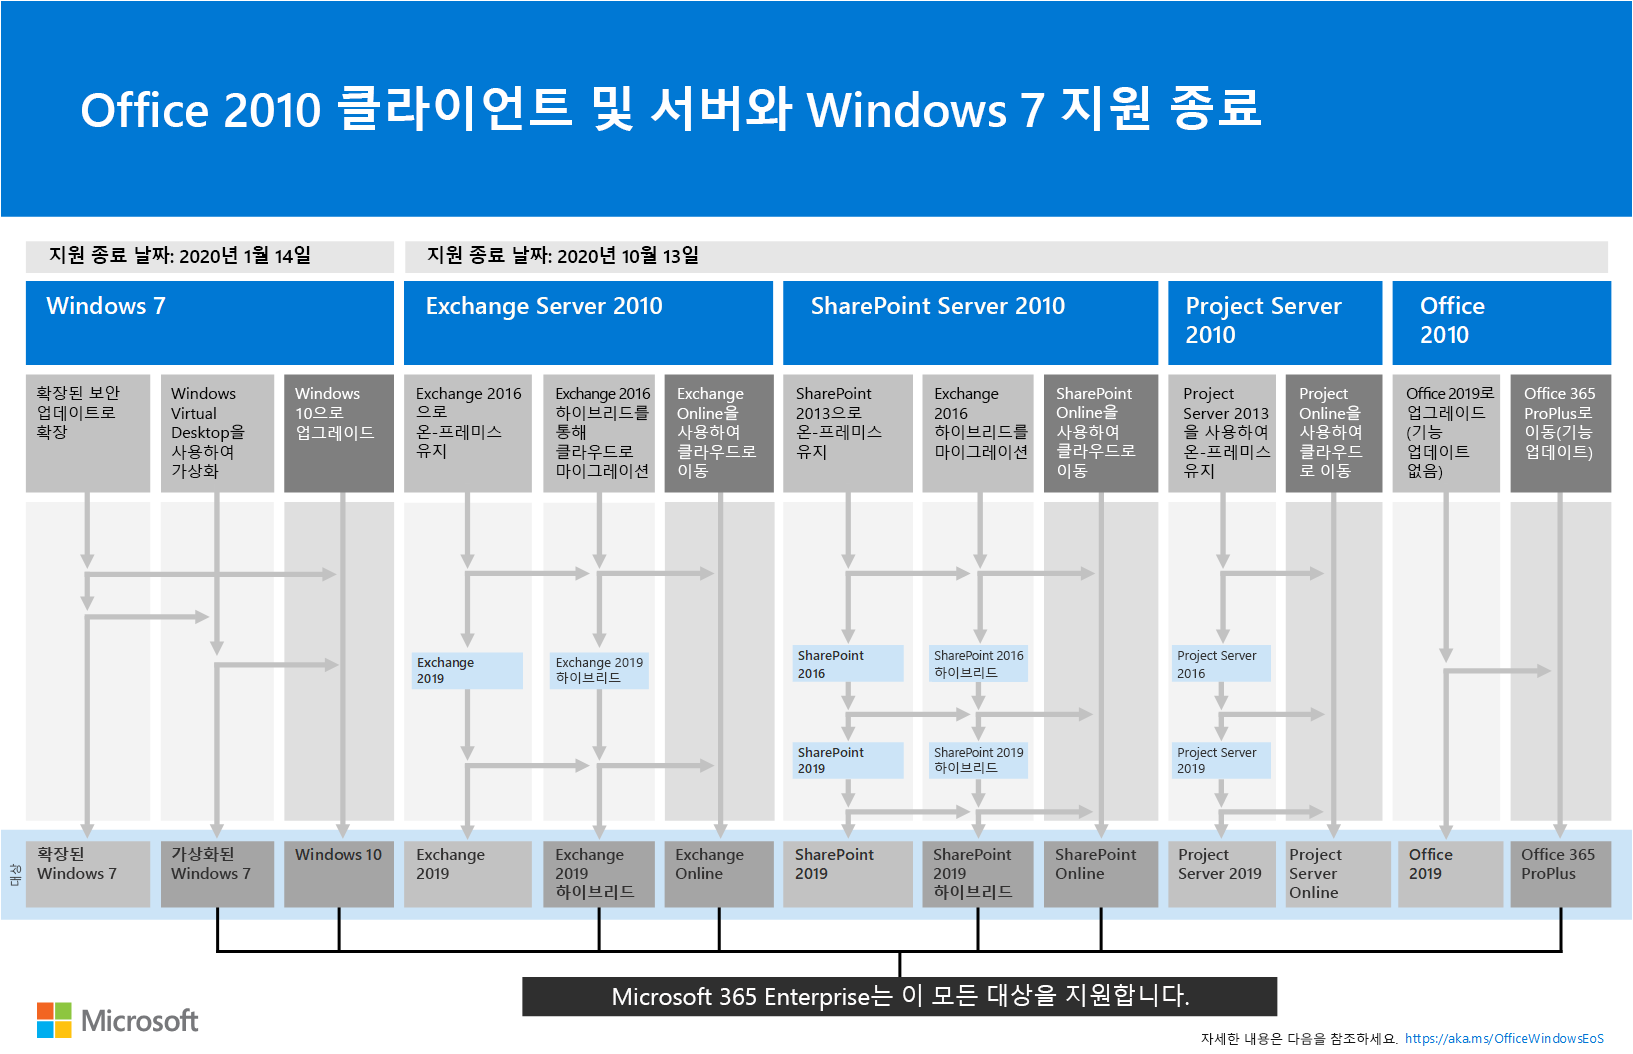
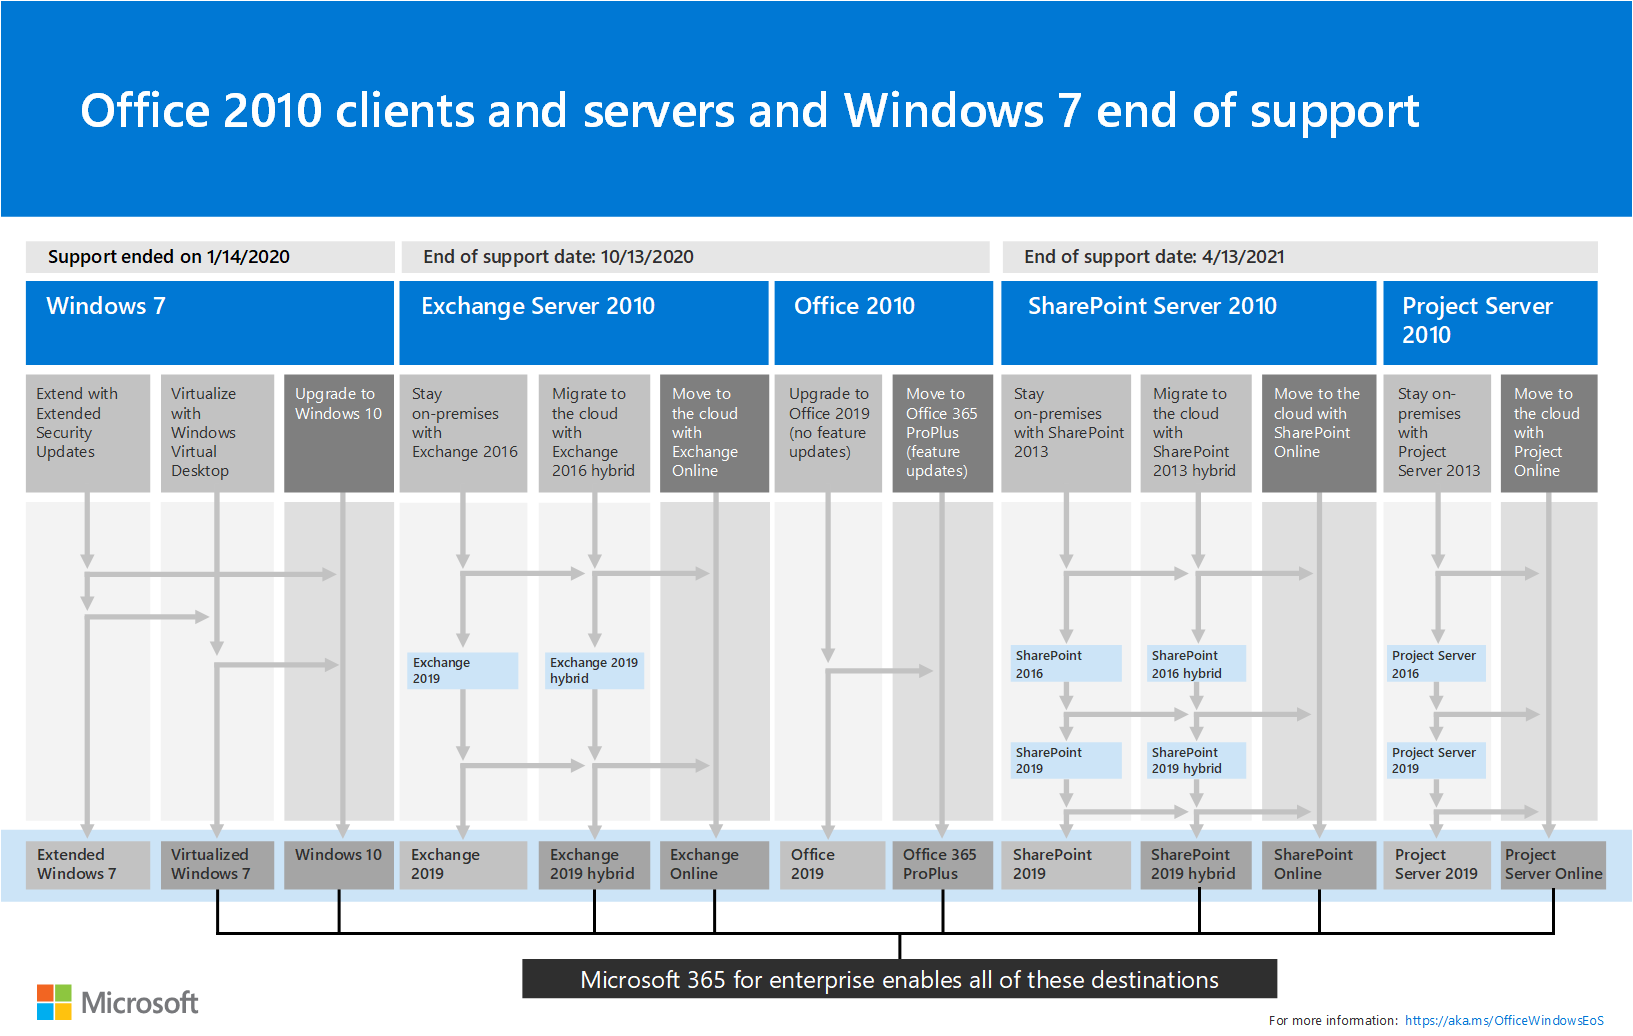
commit translated contents

diff --git a/microsoft-365/admin/security-and-compliance/set-up-multi-factor-authentication.md b/microsoft-365/admin/security-and-compliance/set-up-multi-factor-authentication.md
@@ -22,12 +22,12 @@ search.appverid:
 ms.assetid: 8f0454b2-f51a-4d9c-bcde-2c48e41621c6
 description: 보안 기본값을 사용하여 Office 365 사용자의 다단계 인증을 설정하는 방법을 알아봅니다.
 monikerRange: o365-worldwide
-ms.openlocfilehash: 5f468f040ca88ab4ab2bc198d0d7550bf2e7f4af
-ms.sourcegitcommit: 8a88b7526e6a3a907f33a8567e0d25b74fe60d80
+ms.openlocfilehash: 7e48f72f2fd8cfc5042bd15f994cc98bfa5fca8c
+ms.sourcegitcommit: dbbdeca5a6cd048e1bde9e820a8b8a0d6022c7a2
 ms.translationtype: MT
 ms.contentlocale: ko-KR
-ms.lasthandoff: 04/09/2020
-ms.locfileid: "43204025"
+ms.lasthandoff: 04/14/2020
+ms.locfileid: "43503974"
 ---
 # <a name="set-up-multi-factor-authentication"></a>다단계 인증 설정
   
@@ -37,6 +37,7 @@ ms.locfileid: "43204025"
 모든 새 비즈니스용 Office 365 또는 Microsoft 365 Business 구독에는 자동으로 보안 기본값이 설정됩니다. 즉, 모든 사용자가 자신의 모바일 장치에 MFA를 설정 하 고 Microsoft Authenticator 앱을 설치 해야 합니다. 자세한 내용은 [Office 365에 대해 2단계 인증 설정](https://support.office.com/article/ace1d096-61e5-449b-a875-58eb3d74de14)을 참조하세요.  
 
 다음 9개의 관리자 역할은 로그인할 때마다 추가 인증을 수행해야 합니다.
+
 - 전역 관리자
 - SharePoint 관리자
 - Exchange 관리자
@@ -47,7 +48,7 @@ ms.locfileid: "43204025"
 - 사용자 관리자
 - 인증 관리자
 
-필요한 경우 다른 모든 사용자들은 추가 인증을 수행하라는 요청을 받습니다. 자세한 내용은 [보안 기본값이란?](https://docs.microsoft.com/azure/active-directory/fundamentals/concept-fundamentals-security-defaults)을 참조하세요.
+필요한 경우 다른 모든 사용자들은 추가 인증을 수행하라는 요청을 받습니다. 자세한 내용은 [보안 기본값 이란?](https://docs.microsoft.com/azure/active-directory/fundamentals/concept-fundamentals-security-defaults)를 참조 하세요.
 
 > [!NOTE]
 > MFA를 설정 하거나 수정 하려면 Office 365 전역 관리자 여야 합니다. <br><br>
@@ -61,8 +62,7 @@ ms.locfileid: "43204025"
 ## <a name="manage-security-defaults"></a>보안 기본값 관리
 
 1. 전역 관리자 자격 증명을 사용하여 [관리 센터](https://go.microsoft.com/fwlink/p/?linkid=834822)에 로그인합니다.
-2. [Azure Active Directory 속성](https://portal.azure.com/#blade/Microsoft_AAD_IAM/ActiveDirectoryMenuBlade/Properties)로 이동합니다.
-
+2. [Azure Active Directory 속성](https://portal.azure.com/#blade/Microsoft_AAD_IAM/ActiveDirectoryMenuBlade/Properties)으로 이동합니다.
 3. 페이지 맨 아래에서 **보안 기본값 관리**를 선택합니다.
 4. 보안 기본값을 사용 하려면 **예** 를 선택 하 고 보안 기본값을 사용 하지 않으려면 **아니요** 를 선택한 다음 **저장**을 선택 합니다.
 
@@ -74,9 +74,9 @@ ms.locfileid: "43204025"
 
 3. **보안 | 시작** 페이지에서 **조건부 액세스**를 선택 합니다. 
 
-4. **Azure 포털 조건부 액세스 정책** 페이지에서 **켬**으로 되어 있는 각 기본 정책을 선택하고 이 정책들을 **끔**으로 설정합니다.
+4. **조건부 액세스-정책** 페이지에서 설정 된 각 기준 정책을 선택 하 고 **이를**사용 **안 함**으로 설정할 수 있습니다.
 5. [Azure Active Directory 속성](https://portal.azure.com/#blade/Microsoft_AAD_IAM/ActiveDirectoryMenuBlade/Properties) 페이지로 이동합니다.
-6. 페이지 맨 하단에서 **보안 기본값** 관리를 선택하고 **보안 기본값 사용** 창에서 **보안 기본값** 토글을 **예**로 전환합니다. 
+6. 페이지 맨 아래에서 **보안 기본값 관리**를 선택 하 **고 보안 기본값 사용 창에서** **보안 기본값 사용** 을 설정/해제를 선택한 다음 **저장** **을 선택**합니다. 
 
 ## <a name="enable-modern-authentication-for-your-organization"></a>조직에 대 한 최신 인증을 사용 하도록 설정
 
@@ -84,12 +84,13 @@ ms.locfileid: "43204025"
 
 1. 최신 인증을 사용하도록 설정하려면 [관리 센터](https://go.microsoft.com/fwlink/p/?linkid=834822)의 **설정** \> **설정**을 선택하고 **서비스**탭의 목록에서 **최신 인증**을 선택합니다.
 
-2. **최신 인증** 패널에서 **최신 인증 사용** 확인란을 선택합니다. 
+2. **최신** 인증 패널에서 **최신 인증 사용 (권장)** 상자를 선택 하 고 **변경 내용 저장**을 선택 합니다. 
 
     ![사용 확인란이 선택된 최신 인증 패널](../../media/enablemodernauth.png)
     
 > [!IMPORTANT]
 > 2017년 8월을 기준으로 비즈니스용 Skype Online 및 Exchange Online을 포함하는 모든 새 Office 365 테넌트는 기본적으로 최신 인증을 사용하도록 설정되어 있습니다. 비즈니스용 Skype Online의 최신 인증 상태를 확인하려면 전역 관리자 자격 증명을 사용하여 비즈니스용 Skype Online PowerShell을 사용할 수 있습니다. Get-CsOAuthConfiguration을 실행하여ClientADALAuthOverride의 결과물을 확인합니다. ClientADALAuthOverride가 '허용'인 경우 최신 인증이 설정되어 있습니다.
+
 Exchange Online의 MA 상태를 확인하려면 [Exchange Online에서 최신 인증을 사용하도록 설정](https://docs.microsoft.com/exchange/clients-and-mobile-in-exchange-online/enable-or-disable-modern-authentication-in-exchange-online)을 참조하세요.
 
 ## <a name="related-articles"></a>관련 문서

diff --git a/microsoft-365/enterprise/microsoft-365-overview.md b/microsoft-365/enterprise/microsoft-365-overview.md
@@ -13,12 +13,12 @@ localization_priority: Normal
 ms.collection: M365-subscription-management
 ms.custom: it-pro
 description: Microsoft 365 for enterprise의 구성 요소, 계획 및 배포 경로에 대해 소개 합니다.
-ms.openlocfilehash: 043953ddfd38a9ef5119546ec5672dd46e8acb53
-ms.sourcegitcommit: 053d42480d8aa3792ecb0027ddd53d383a029474
+ms.openlocfilehash: 6b8d2aa7fd8455acde1d49a6ed7f7c93c5235652
+ms.sourcegitcommit: dbbdeca5a6cd048e1bde9e820a8b8a0d6022c7a2
 ms.translationtype: MT
 ms.contentlocale: ko-KR
-ms.lasthandoff: 04/07/2020
-ms.locfileid: "43175193"
+ms.lasthandoff: 04/14/2020
+ms.locfileid: "43504094"
 ---
 # <a name="microsoft-365-for-enterprise-overview"></a>엔터프라이즈용 Microsoft 365 개요
 
@@ -84,15 +84,14 @@ Microsoft 365 E3이 있는 경우 다음 [제품](https://www.microsoft.com/micr
 
 ## <a name="avoid-end-of-support-for-windows-7-and-office-2010-clients-and-servers"></a>Windows 7 및 Office 2010 클라이언트 및 서버에 대 한 지원 종료 방지
 
-다음 제품은 **2020 년 1 월 14 일**에 대 한 지원 종료에 도달 했습니다.
-
-- [Windows 7](https://aka.ms/win7upgrade)
+[Windows 7](https://aka.ms/win7upgrade) **이 2020 년 1 월 14**일에 지원 종료에 도달 했습니다.
 
 다음 제품은 **2020 년 10 월 13 일**에 지원 종료에 도달 합니다.
 
 - [Office 2010](https://docs.microsoft.com/DeployOffice/office-2010-end-support-roadmap)
 - [Exchange Server 2010](https://docs.microsoft.com/office365/enterprise/exchange-2010-end-of-support)
-- [SharePoint Server 2010](https://docs.microsoft.com/office365/enterprise/upgrade-from-sharepoint-2010)
+
+[SharePoint Server 2010](https://docs.microsoft.com/office365/enterprise/upgrade-from-sharepoint-2010) 는 지원 종료 **, 2021 년 4 월 13 일**에 도달 합니다.
 
 이러한 제품에 대한 업그레이드, 클라우드로 이동 옵션을 알기 쉽게 요약한 내용을 보려면 [지원 종료 포스터](../media/migration-microsoft-365-enterprise-workload/Office2010Windows7EndOfSupport.pdf)를 참조하세요.
 

diff --git a/microsoft-365/business/support/transition-csp-subscription.md b/microsoft-365/business/support/transition-csp-subscription.md
@@ -1,5 +1,5 @@
 ---
-title: Microsoft 365 Business CSP 구독을 전환 
+title: Microsoft 365 Business CSP 구독을 전환
 description: Microsoft 365 Business CSP 구독을 미리 보기에서 GA (일반 가용성)으로 전환 하는 방법에 대해 알아봅니다.
 author: jasongroce
 f1.keywords:
@@ -13,12 +13,12 @@ localization_priority: Normal
 audience: microsoft-business 
 keywords: Microsoft 365 Business, Microsoft 365, SMB, CSP 구독 전환
 ms.date: 11/01/2017
-ms.openlocfilehash: 77b7b474a5ad17db58e283ea61b074c959905d1b
-ms.sourcegitcommit: 217de0fc54cbeaea32d253f175eaf338cd85f5af
+ms.openlocfilehash: 0a30d80ad5217868fec81866ab1dc41013917e99
+ms.sourcegitcommit: dbbdeca5a6cd048e1bde9e820a8b8a0d6022c7a2
 ms.translationtype: MT
 ms.contentlocale: ko-KR
-ms.lasthandoff: 03/07/2020
-ms.locfileid: "42560783"
+ms.lasthandoff: 04/14/2020
+ms.locfileid: "43504110"
 ---
 # <a name="transition-a-microsoft-365-business-csp-subscription"></a>Microsoft 365 Business CSP 구독을 전환
 
